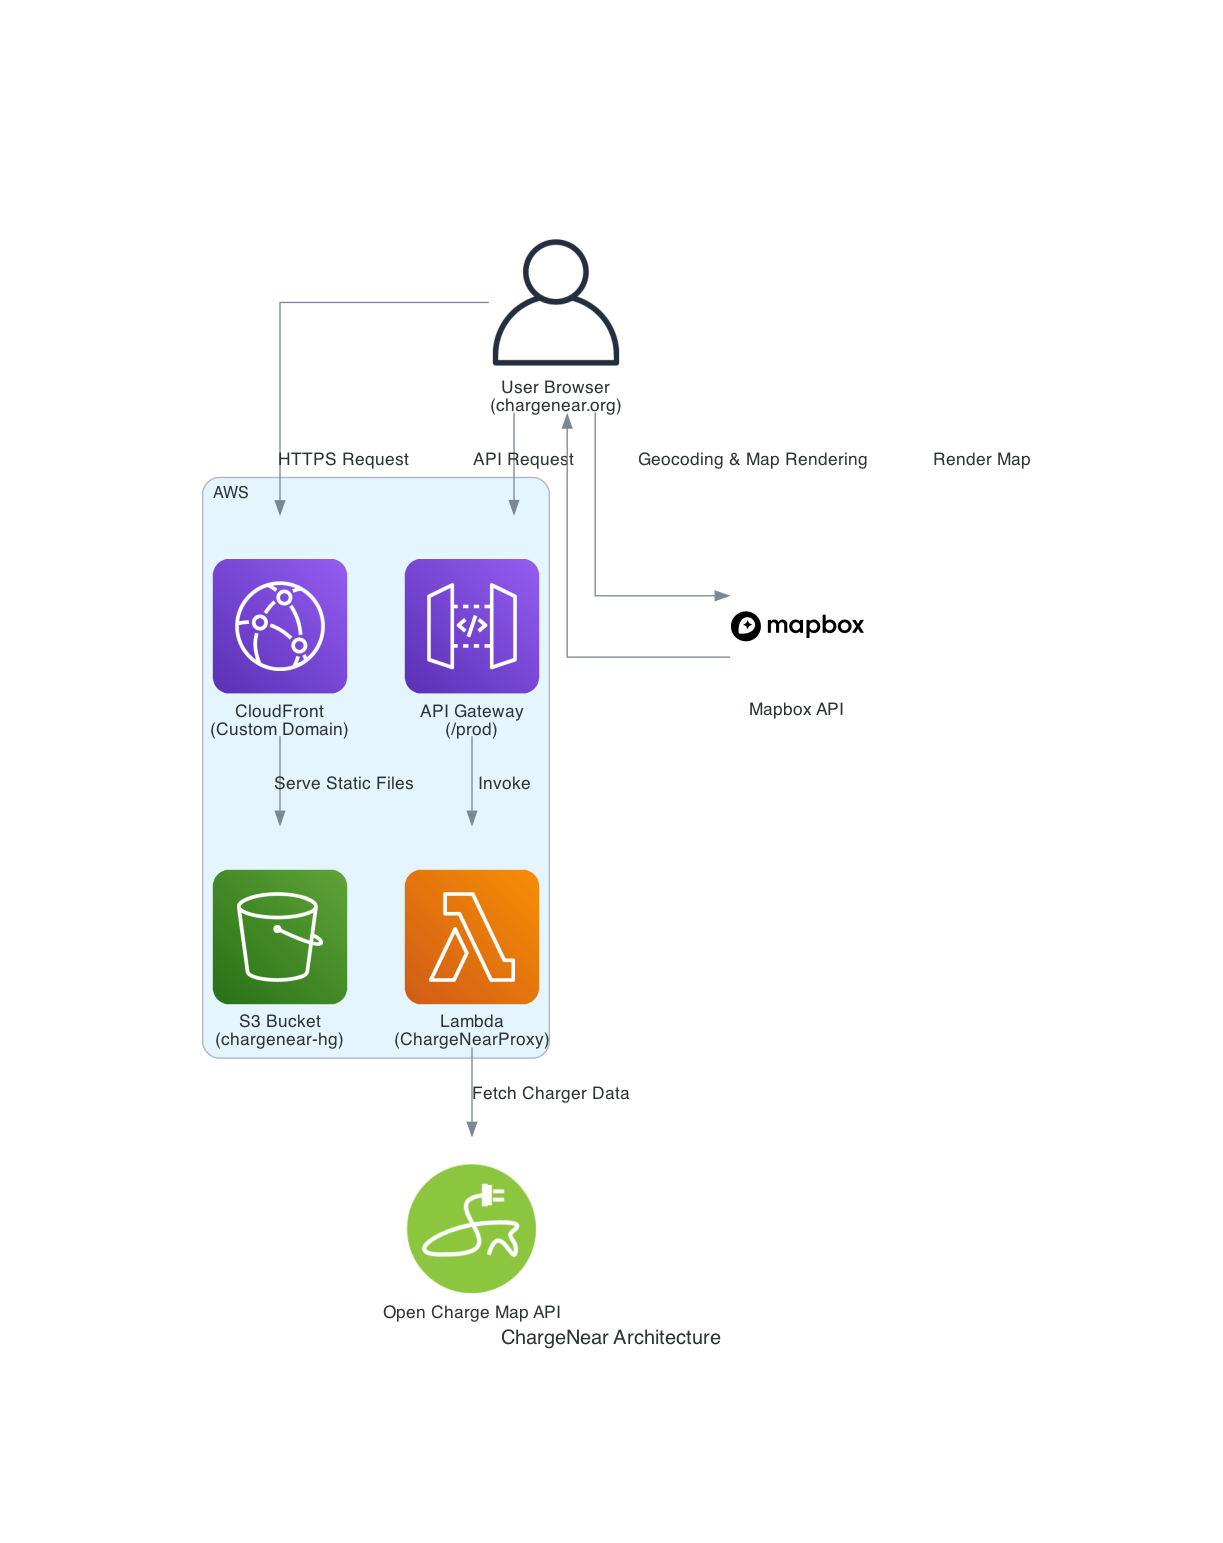
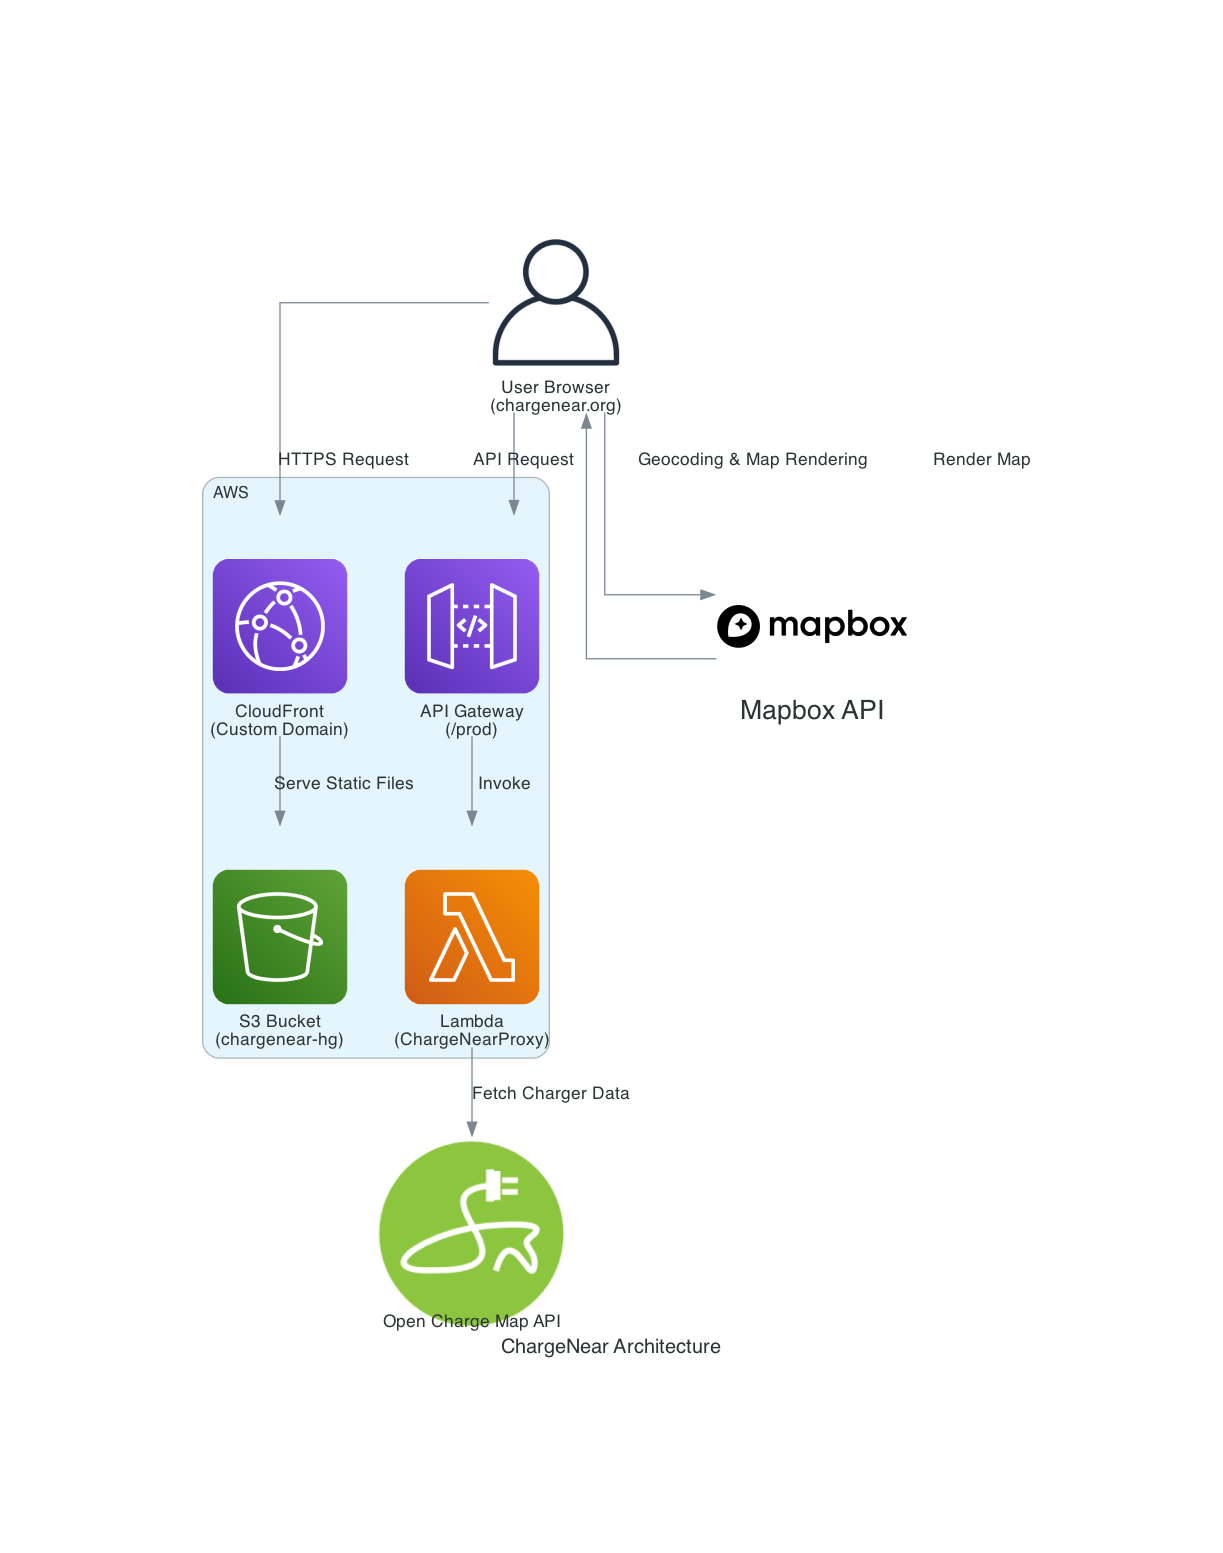
Update

diff --git a/architecture.py b/architecture.py
@@ -18,8 +18,8 @@ with Diagram("ChargeNear Architecture", show=False, direction="TB"):
         lambda_func = Lambda("Lambda\n(ChargeNearProxy)")
 
     # External APIs
-    ocm = Custom("Open Charge Map API", "./ocm_logo.png")  # You'll need a logo image
-    mapbox = Custom("Mapbox API", "./mapbox_logo.png")      # You'll need a logo image
+    ocm = Custom("Open Charge Map API", "./ocm_logo.png", width="2", height="2")
+    mapbox = Custom("Mapbox API", "./mapbox_logo.png", width="2", height="2", fontsize="20")
 
     # Connections
     user >> Edge(label="HTTPS Request") >> cloudfront
